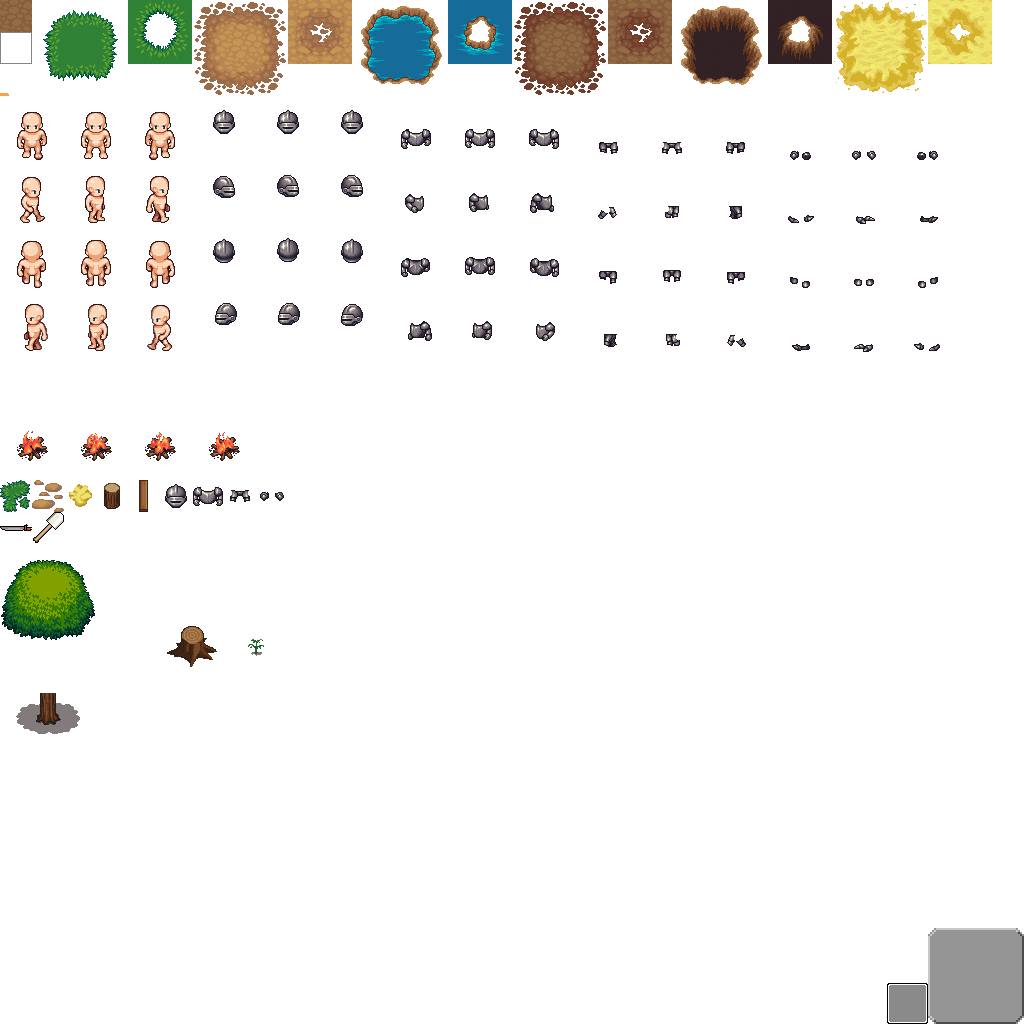
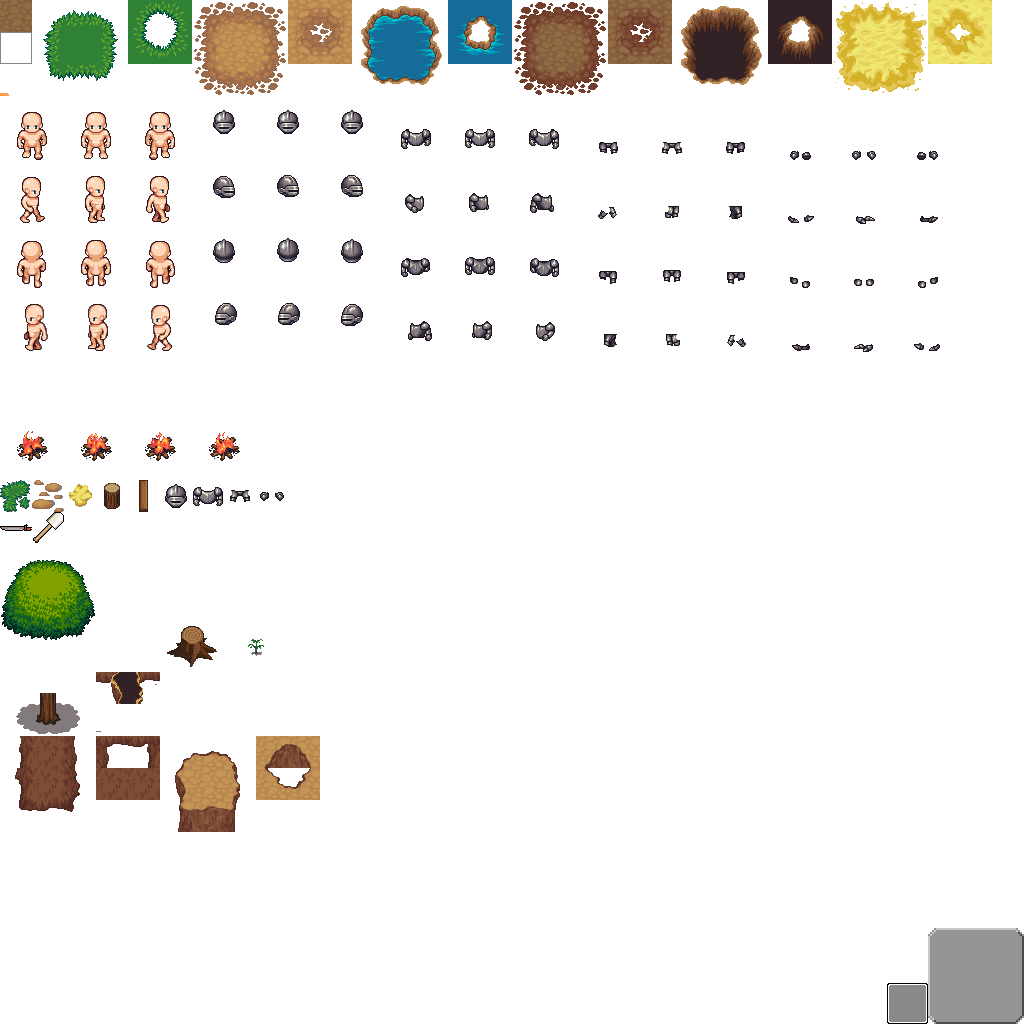
Mountains (still containing the "bloom bug")  That is a cool name for a bug...

Changed region(s): [[0.0, 0.7188, 0.3125, 0.8125], [0.0938, 0.6562, 0.1562, 0.6875]]

diff --git a/src/com/madbros/adventurecraft/Level.java b/src/com/madbros/adventurecraft/Level.java
@@ -71,7 +71,7 @@ public class Level {
 			for(int y = startY; y < startY+CHUNK_SIZE; y++) {
 				if(activeBlocks[x][y].isUnfinished == true) {
 					//System.out.println("SOMETHING");
-					System.out.println(x+","+y);
+					//System.out.println(x+","+y);
 					activeBlocks[x][y].layers[OBJECT_LAYER].bloom(x,y, activeBlocks);	
 				}	
 			}
@@ -98,7 +98,9 @@ public class Level {
 		highlightedBlockY = renderRect.y + (mRect.y + offsetY) / TILE_SIZE;
 		highlightedBlock = activeBlocks[highlightedBlockX][highlightedBlockY];
 		
-		System.out.println("HILITE: "+highlightedBlockX+","+highlightedBlockY);
+		//autoTileHighlightedBlock();
+		System.out.println(activeBlocks[highlightedBlockX][highlightedBlockY].layers[OBJECT_LAYER].textures);
+		//System.out.println("HILITE: "+highlightedBlockX+","+highlightedBlockY);
 		
 		if(tileBeingAttacked != highlightedBlock.getTopTile()) {
 			tileBeingAttacked.currentHp = tileBeingAttacked.maxHp;
@@ -253,10 +255,10 @@ public class Level {
 		if(noise < -0.1) {
 			Tile[] waterTile = {new DarkDirtTile(),  new DirtTile(), new NoTile(), new WaterTile(), new NoTile(), new NoTile(), new NoTile(), new NoTile(), new NoTile(), new NoTile(), new NoTile()};
     		block = new Block(waterTile, absX, absY, false);
-    	//} else if(noise > 0.1 && noise < 0.105) {
-		} else if(noise < 3000 && noise >-0.1) {
-	    	Tile[] treeTile = {new DarkDirtTile(), new DirtTile(), new GrassTile(), new NoTile(), new TreeTile(), new NoTile(), new NoTile(), new NoTile(), new NoTile(), new NoTile(), new NoTile()};
-	    	block = new Block(treeTile, absX, absY, true);
+    	} else if(noise > 0.1) {
+		//} else if(noise < 3000 && noise >-0.1) {
+	    	Tile[] dirtMountainTile = {new DarkDirtTile(), new DirtTile(), new GrassTile(), new NoTile(), new DirtMountainBottomTile(), new NoTile(), new NoTile(), new NoTile(), new NoTile(), new NoTile(), new NoTile()};
+	    	block = new Block(dirtMountainTile, absX, absY, true);
 	    	block.isUnfinished = true;
     	} 
 		else {

diff --git a/src/com/madbros/adventurecraft/TileTypes/DirtMountainBottomTile.java b/src/com/madbros/adventurecraft/TileTypes/DirtMountainBottomTile.java
@@ -1,0 +1,53 @@
+package com.madbros.adventurecraft.TileTypes;
+
+import static com.madbros.adventurecraft.Constants.*;
+
+import com.madbros.adventurecraft.*;
+import com.madbros.adventurecraft.Utils.Margin;
+
+public class DirtMountainBottomTile extends CollisionTile {
+	public DirtMountainBottomTile() {
+		super();
+		currentTexture = 0;
+		textures = Textures.dirtMountainBottomTextures;
+		margin = new Margin(3, 3, 0, 12);
+		id = DIRT_MOUNTAIN_BOTTOM;
+		layer = OBJECT_LAYER;
+		z = Z_OBJECT;
+		isDiggable = false;
+	}
+	
+	public void render(int x, int y, int layer) {
+		textures[currentTexture].draw(x, y, z, TILE_SIZE * Game.pixelModifier, TILE_SIZE * Game.pixelModifier);
+	}
+	
+	public Tile createNew() {
+		return new DirtMountainBottomTile();
+	}
+	
+	@Override
+	public void bloom(int x, int y, Block[][] activeBlocks) {
+		int layer;
+		Block b;
+		
+		if(x<1 || y<1 || x > CHUNK_SIZE*CHUNKS_IN_A_ROW-2 || y > CHUNK_SIZE*CHUNKS_IN_A_ROW-2) {
+			activeBlocks[x][y].isUnfinished = true;
+		} else {
+			activeBlocks[x][y].isUnfinished = false;
+			
+			b = activeBlocks[x][y-1];
+			if(b.layers[ABOVE_LAYER_1].id != AIR && b.layers[ABOVE_LAYER_2].id != AIR && b.layers[ABOVE_LAYER_3].id != AIR && b.layers[ABOVE_LAYER_4].id != AIR && b.layers[ABOVE_LAYER_5].id != AIR) layer = ABOVE_LAYER_6;
+			else if(b.layers[ABOVE_LAYER_1].id != AIR && b.layers[ABOVE_LAYER_2].id != AIR && b.layers[ABOVE_LAYER_3].id != AIR && b.layers[ABOVE_LAYER_4].id != AIR) layer = ABOVE_LAYER_5;
+			else if(b.layers[ABOVE_LAYER_1].id != AIR && b.layers[ABOVE_LAYER_2].id != AIR && b.layers[ABOVE_LAYER_3].id != AIR) layer = ABOVE_LAYER_4;
+			else if(b.layers[ABOVE_LAYER_1].id != AIR && b.layers[ABOVE_LAYER_2].id != AIR) layer = ABOVE_LAYER_3;
+			else if(b.layers[ABOVE_LAYER_1].id != AIR) layer = ABOVE_LAYER_2;
+			else layer = ABOVE_LAYER_1;
+			b.layers[layer] = new DirtMountainTopTile(); 
+			b.layers[layer].currentTexture = 0;
+			b.layers[layer].z = Z_ABOVE_LAYER;
+			
+			
+		}
+		
+	}
+}

diff --git a/src/com/madbros/adventurecraft/TileTypes/DirtMountainTopTile.java b/src/com/madbros/adventurecraft/TileTypes/DirtMountainTopTile.java
@@ -1,0 +1,38 @@
+package com.madbros.adventurecraft.TileTypes;
+
+import static com.madbros.adventurecraft.Constants.*;
+
+import com.madbros.adventurecraft.*;
+import com.madbros.adventurecraft.Utils.Helpers;
+import com.madbros.adventurecraft.Utils.Margin;
+
+public class DirtMountainTopTile extends CollisionTile {
+	public DirtMountainTopTile() {
+		super();
+		currentTexture = 0;
+		textures = Textures.dirtMountainTopTextures;
+		margin = new Margin(9, 9, 12, 11);
+		id = DIRT_MOUNTAIN_TOP;
+		layer = ABOVE_LAYER_1;
+		z = Z_ABOVE_LAYER;
+		isDiggable = false;
+	}
+	
+	public void render(int x, int y, int layer) {
+		float z;
+//		if(currentTexture == 0 ) {
+		Helpers.println(String.valueOf(layer / 100f));	//FIXME!!
+		z = this.z + Math.max(layer / 100f, layer / 100f);
+//			else z = this.z + Math.max(Game.level.test.x / 1000f, Game.level.test.y / 1000f);
+//		} else {
+//			z = Z_ABOVE_LAYER;
+//		}
+//		if(y > Game.hero.sRect.y) z = Z_ABOVE_LAYER;// + Math.max(Game.level.test.x / 1000f, Game.level.test.y / 1000f);	//FIXME: not an ideal conditional
+//		else z = this.z;// + Math.max(Game.level.test.x / 1000f, Game.level.test.y / 1000f);
+		textures[currentTexture].draw(x, y, z, TILE_SIZE * Game.pixelModifier, TILE_SIZE * Game.pixelModifier);
+	}
+	
+	public Tile createNew() {
+		return new DirtMountainTopTile();
+	}
+}

diff --git a/src/com/madbros/adventurecraft/Textures.java b/src/com/madbros/adventurecraft/Textures.java
@@ -27,6 +27,8 @@ public class Textures {
 	public static Sprite[] waterTextures;
 	public static Sprite[] holeTextures;
 	public static Sprite[] sandTextures;
+	public static Sprite[] dirtMountainBottomTextures;
+	public static Sprite[] dirtMountainTopTextures;
 	public static Sprite[] saplingTexture;
 	
 	
@@ -81,11 +83,13 @@ public class Textures {
 			waterTextures = new Sprite[13]; Point pWater = new Point(11*TEXTURE_SIZE, 0);
 			holeTextures = new Sprite[13]; Point pHole = new Point(21*TEXTURE_SIZE, 0);
 			sandTextures = new Sprite[13]; Point pSand = new Point(26*TEXTURE_SIZE, 0);
+			dirtMountainBottomTextures = new Sprite[13]; Point pMountainBottom = new Point(0, 23*TEXTURE_SIZE);
+			dirtMountainTopTextures = new Sprite[13]; Point pMountainTop = new Point(5*TEXTURE_SIZE, 23*TEXTURE_SIZE);
 			
 			
 			
-			Sprite[][] t = {grassTextures, dirtTextures, waterTextures, holeTextures, sandTextures};
-			Point[] pts = {pGrass, pDirt, pWater, pHole, pSand};
+			Sprite[][] t = {grassTextures, dirtTextures, waterTextures, holeTextures, sandTextures, dirtMountainBottomTextures, dirtMountainTopTextures};
+			Point[] pts = {pGrass, pDirt, pWater, pHole, pSand, pMountainBottom, pMountainTop};
 			
 			int k = 0;
 			for(int i = 0; i < 3; i++) {

diff --git a/src/com/madbros/adventurecraft/Constants.java b/src/com/madbros/adventurecraft/Constants.java
@@ -100,6 +100,8 @@ public class Constants {
 	public static final int DARK_DIRT = 8;
 	public static final int SAPLING = 9;
 	public static final int TREE_LEAF = 10;
+	public static final int DIRT_MOUNTAIN_BOTTOM = 11;
+	public static final int DIRT_MOUNTAIN_TOP = 12;
 	
 	//Layers
 	public static final int DARK_DIRT_LAYER = 0;
@@ -244,6 +246,8 @@ public class Constants {
 		TILE_HASH.put(AIR, new NoTile());
 		TILE_HASH.put(SAPLING, new SaplingTile());
 		TILE_HASH.put(TREE_LEAF, new TreeLeafTile());
+		TILE_HASH.put(DIRT_MOUNTAIN_BOTTOM, new DirtMountainBottomTile());
+		TILE_HASH.put(DIRT_MOUNTAIN_TOP, new DirtMountainTopTile());
 		
 		TOP_LEFT_AUTO_TILE_HASH.put(0, TOP_LEFT_TILE);
 		TOP_LEFT_AUTO_TILE_HASH.put(1, TOP_LEFT_TILE);
